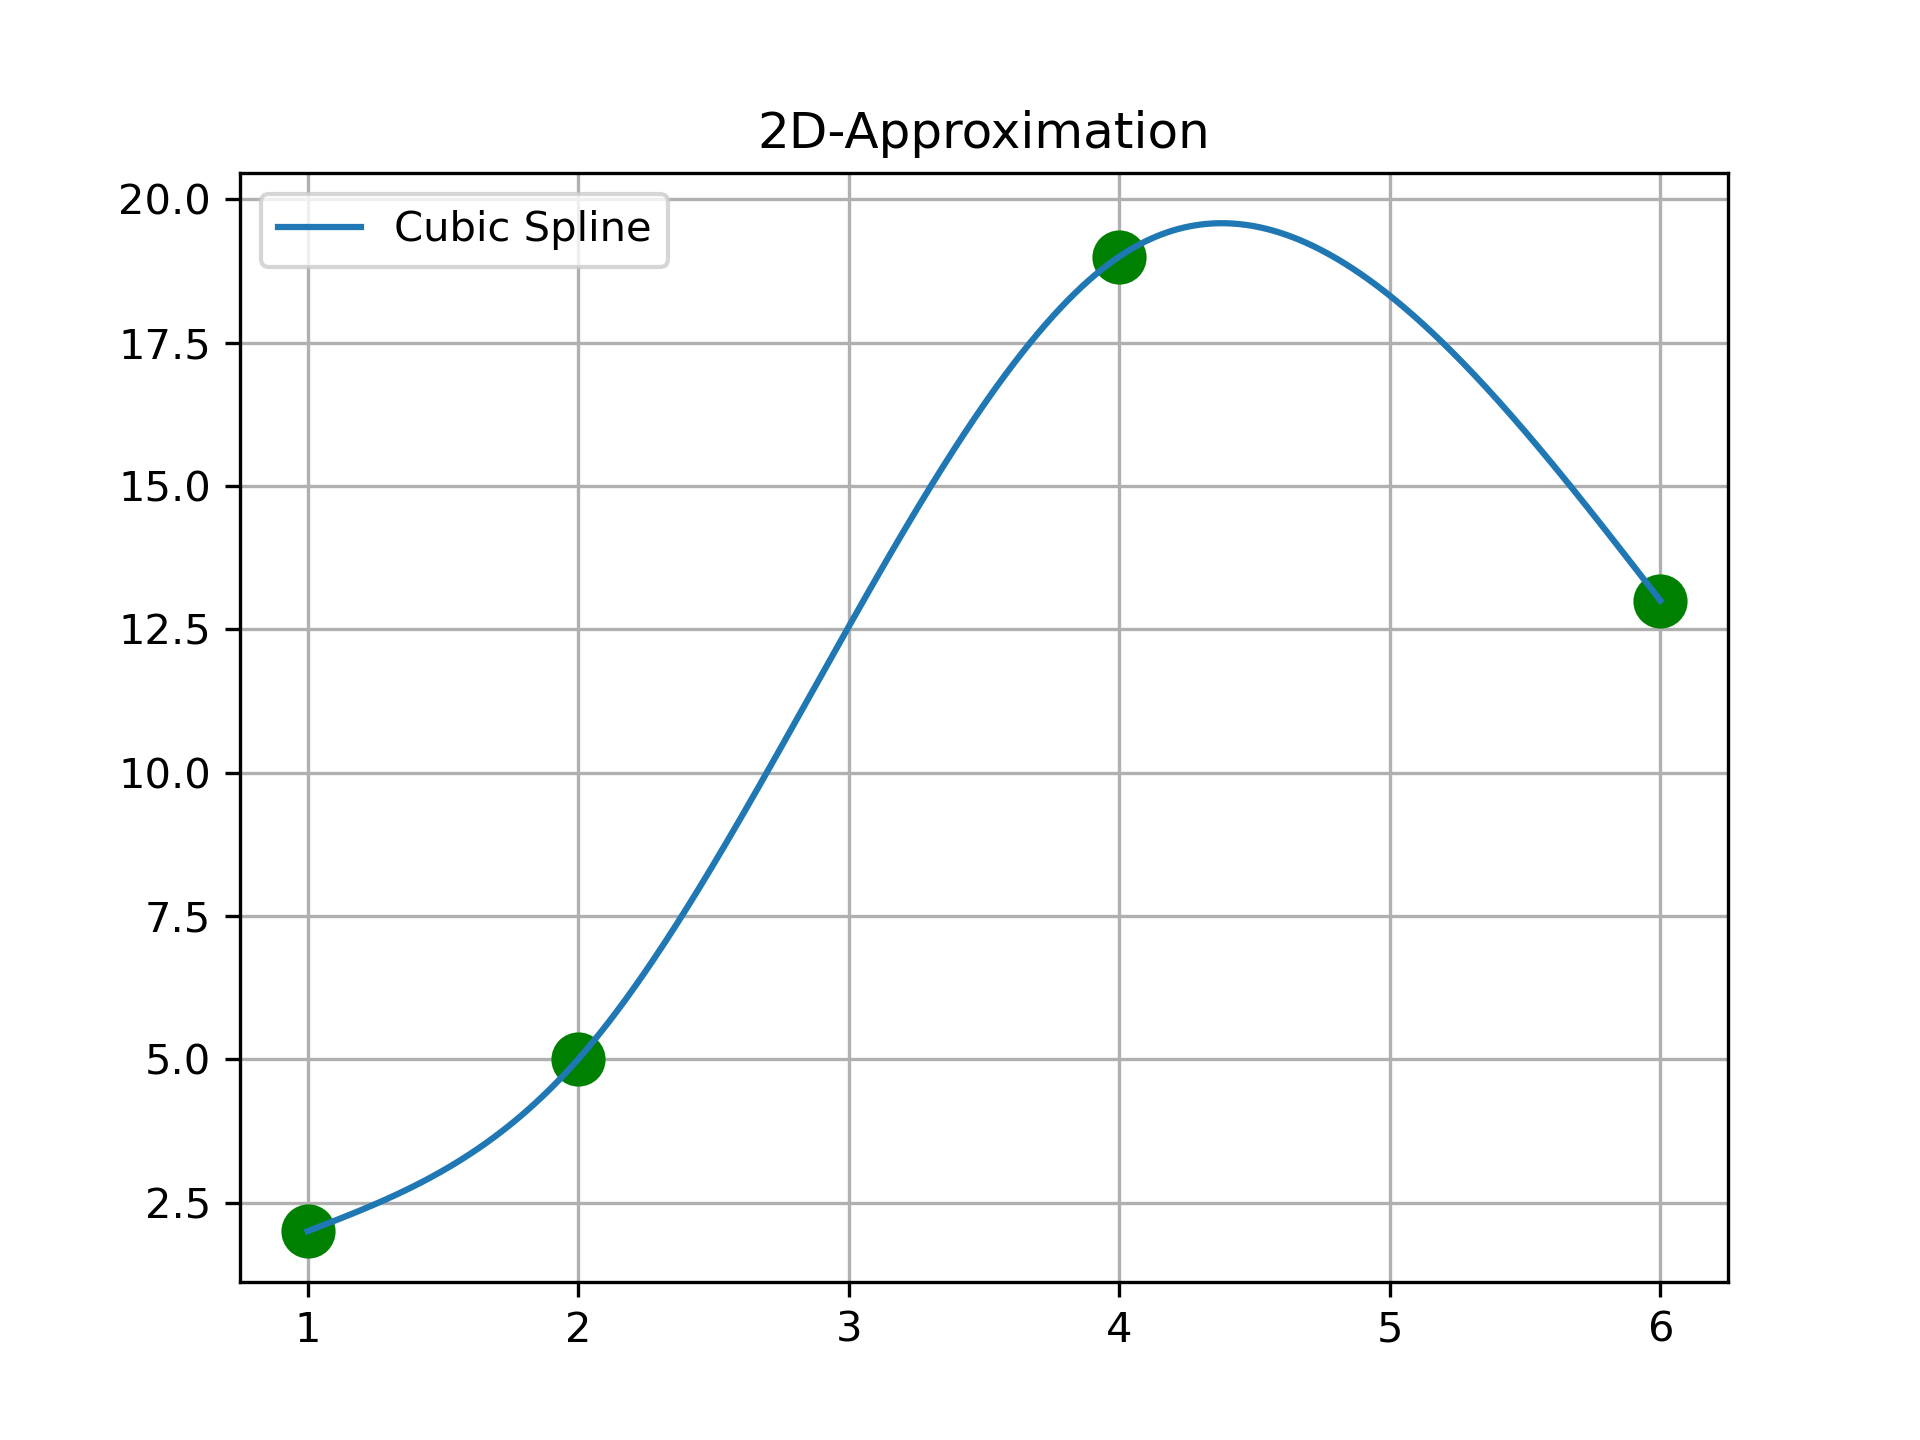
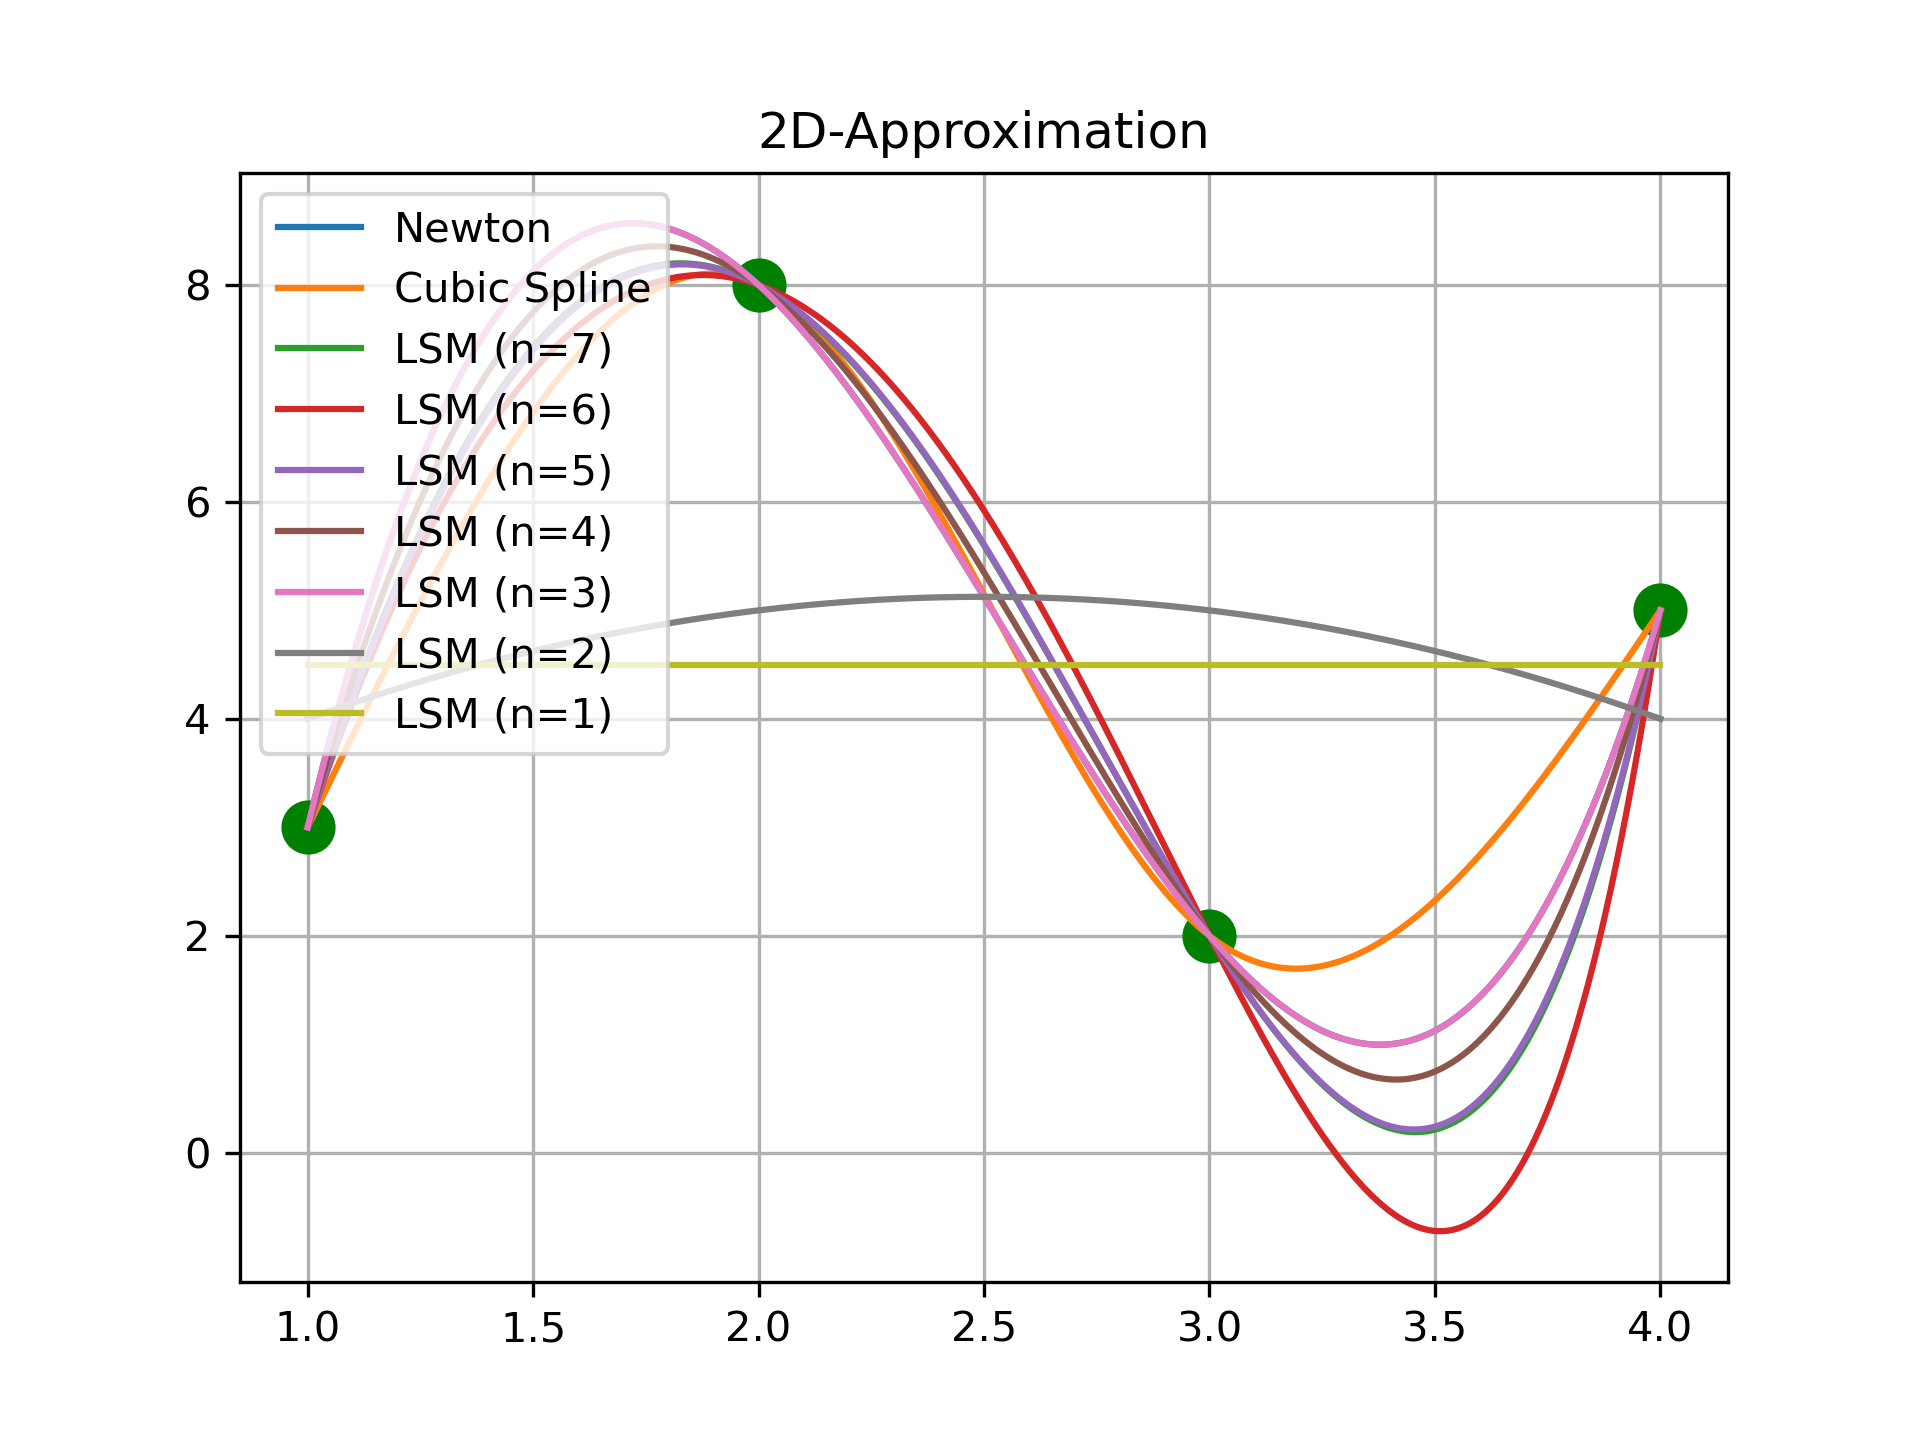
app: final working project with instructions

diff --git a/app.py b/app.py
@@ -1,6 +1,102 @@
 import streamlit as st
 from config import *
+from handler import *
+import matplotlib.pyplot as plt
 
-st.title('Math bot')
-st.date_input(f'Application (v.{BOT_VERSION}) by **@{BOT_AUTHOR}** is running..')
-st.balloons()
+def equation_handler(txt):
+    try:
+        # [txt] equation
+        st.write('## Solution')
+        methods = [binary_searching, secant, brentq]
+        msg = ['Binary searching algo', 'Secant algo', 'Brent algo']
+        solution = eq(txt, methods)
+        ans = 'Error code: 400. Bad request: can not recognize that function'
+        if solution is not None:
+            roots, runtimes = solution[0], solution[1]
+            def roots_to_str(roots):
+                if len(roots) > 0:
+                    return '\n'.join([f'X{j} = {roots[j]}' for j in range(len(roots))])
+                return 'No roots.'
+            ans = '\n\n'.join([
+                f'##### {i+1} {msg[i]} ({runtimes[i]*1e3:.2f} ms):\n\n{roots_to_str(roots[i])}' 
+                for i in range(len(methods))
+            ])
+            a, b = -1e2, 1e2
+            if Equation.fType(txt):
+                a, b = -pi, pi
+            plt1 = Graphic.plotFunc(plt, Equation.func(txt), a, b, title='Equation')
+            if len(roots) > 0:
+                point = roots[1]
+                plt1.plot(point, 0, 'r*', markersize=10)
+            st.pyplot(plt1)
+        st.write(ans)
+    except Exception as e:
+        st.warning(e.args)
+
+def integral_handler(txt):
+    try:
+        # [txt] function, low_border, high_border
+        st.write('## Integral')
+        tmp = Integral(txt)
+        methods = [Integral.simpson, Integral.trapezoid, Integral.lrectangle, Integral.rrectangle]
+        results = integ(tmp.func, tmp.a, tmp.b, methods)
+        ans = '\n\n'.join([
+            f'##### {i+1} {results[i]["rule"]} ({results[i]["runtime"]*1e3:.2f} ms):\nReturn: {results[i]["value"]}' 
+            for i in range(len(results))
+        ])
+        plt1 = Graphic.plotFunc(plt, tmp.func, tmp.a, tmp.b, title='Integral')
+        st.pyplot(plt1)
+        st.write(ans)
+    except Exception as e:
+        st.warning(e.args)
+
+def checkbox_handler():
+    ne = st.checkbox('Newton')
+    cs = st.checkbox('Cubic Spline')
+    lm = st.checkbox('LSM')
+    algos = []
+    minrange, maxrange = 1, 7    # as default
+    if ne == True:
+        algos.append('ne')
+    if cs == True:
+        algos.append('cs')
+    if lm == True:
+        algos.append('lsm')
+        minrange = st.slider('Choose LSM min level:', min_value=1, max_value=5)
+        maxrange = st.slider('Choose LSM max level:', min_value=minrange, max_value=10)
+    return algos, minrange, maxrange
+
+def approximation_handler(txt):
+    try:
+        # [txt] x: x1, x2,... y: y1, y2, ...
+        app = Approximation(txt)
+        algos, minrange, maxrange = checkbox_handler()
+        if len(algos) > 0:
+            value = st.text_input("Input x-value to calculate")
+            ans = ''
+            for item in app.interp(value, algos, minrange, maxrange):
+                ans += f'##### {item["algo"]}: \nY({value}) = {item["value"]}\n'
+            plt1 = Graphic.plotApp(plt, app.X, app.Y, legends=algos, minN=minrange, maxN=maxrange)
+            st.pyplot(plt1)
+            st.write(ans)
+            pass
+        else:
+            st.warning('Please choose algorithm first!')
+    except Exception as e:
+        st.warning(e.args)
+
+if __name__ == '__main__':    
+    st.title('Math bot')
+    st.date_input(f'Application (v.{BOT_VERSION}) by **@{BOT_AUTHOR}** is running..')
+    st.balloons()
+    
+    txt = st.text_input("Input an expression here").lower()
+    if txt.find('x:') != -1 and txt.find('y:') != 1 and txt.find('v:') != 1:
+        approximation_handler(txt)
+    elif txt.find('=') != -1:
+        equation_handler(txt)
+    elif txt.find(',') != -1:
+        integral_handler(txt)
+    else:
+        st.warning('Error code: 400. Bad request: can not recognize that expression')
+        

diff --git a/handler/approximation.py b/handler/approximation.py
@@ -39,7 +39,7 @@ class Approximation:
         except:
             raise Exception('appy: parse arguments failed')
 
-    def interp_help(self, x_value, algo='ne'):  # cmd: /appv
+    def interp_help(self, x_value, algo='ne', minrange=1, maxrange=7):  # cmd: /appv
         y_value = None
         if algo == 'ne':
             newton = Newton(self.X, self.Y)
@@ -55,7 +55,7 @@ class Approximation:
             }]
         if algo == 'lsm':
             y_value = []
-            for n in range(1, 7):
+            for n in range(minrange, maxrange+1):
                 lsm = LSM(self.X, self.Y, n)
                 item = {
                     'algo': lsm.__str__(),
@@ -64,14 +64,14 @@ class Approximation:
                 y_value.append(item)
         return y_value
         
-    def interp(self, txt, algos=['ne', 'cs', 'lsm']):   # cmd: /appv
+    def interp(self, txt, algos=['ne', 'cs', 'lsm'], minrange=1, maxrange=7):   # cmd: /appv
         try:
             if len(self.X) != len(self.Y):
                 raise Exception('app: arguments have different size')
             x_value = float(txt)
             res = []
             for algo in algos:
-                res.extend(self.interp_help(x_value, algo))
+                res.extend(self.interp_help(x_value, algo, minrange, maxrange))
             return res
         except:
             raise Exception('app: unable to convert to float type')    

diff --git a/handler/graphic.py b/handler/graphic.py
@@ -9,7 +9,7 @@ import matplotlib.pyplot as plt
 
 class Graphic:
     @staticmethod
-    def plotApp(plt, x, y, legends=['ne', 'cs', 'lsm'], npt=1000):
+    def plotApp(plt, x, y, legends=['ne', 'cs', 'lsm'], minN=1, maxN=7, npt=1000):
         gpc = list()
         if 'ne' in legends:
             newton = Newton(x, y)
@@ -31,7 +31,7 @@ class Graphic:
             gpc.append(item)
         if 'lsm' in legends:
             # err = []
-            for n in range(7, 0, -2):
+            for n in range(maxN, minN-1, -1):
                 lsm = LSM(x, y, n)
                 # err.append(lsm.mse())
                 px, py = lsm.get_plot_points(npt)

diff --git a/bot.py b/bot.py
@@ -168,7 +168,7 @@ def run_appv(msg, algos, value=None):
         tmp = Request(msg.json['text'])
         value = tmp.body
     txt = ''
-    for item in app.interp(value, algos):
+    for item in app.interp(value, algos=algos):
         txt += f'{item["algo"]}: {item["value"]}\n'
     plt1 = Graphic.plotApp(plt, app.X, app.Y, legends=algos)
     plt1.savefig('temp/interpolation.png', dpi=300)

diff --git a/README.md b/README.md
@@ -33,3 +33,20 @@ Telegram bot for some mathematical problems
 |5.1|/appx `x1, x2, ...`|set X-coordinate values|
 |5.2|/appy `y1, y2, ...`|set Y-coordinate values|
 |5.3|/appv `value`|get interpolated value at `x = value`|
+
+### WebApp version instruction
++ Input example
+```sh
+[Equation]
+    equation
+
+[Integral]
+    function, low_border, high_border
+
+[Approximation]
+    x: x1, x2,... y: y1, y2, ...
+```
++ Error code
+```js
+    Error code: 400. Bad request: can not recognize that expression
+```
